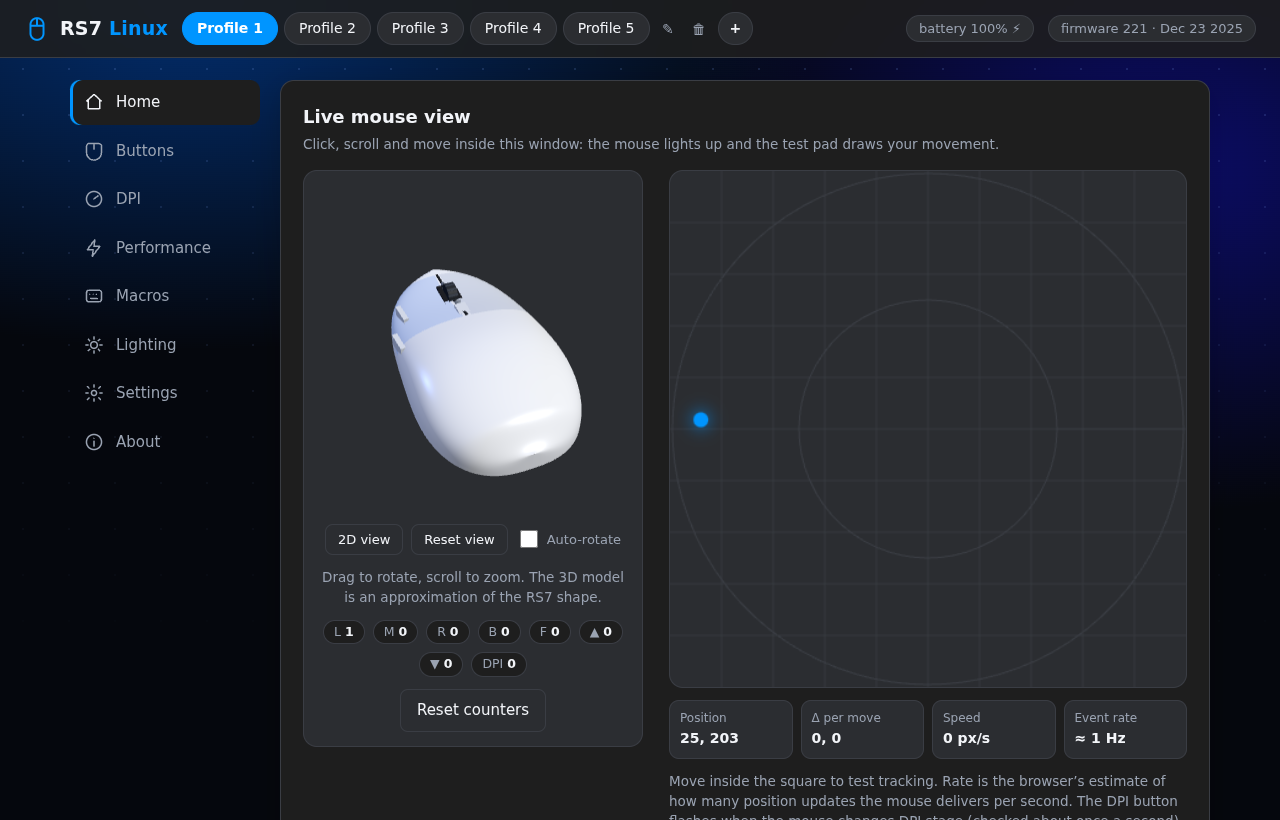
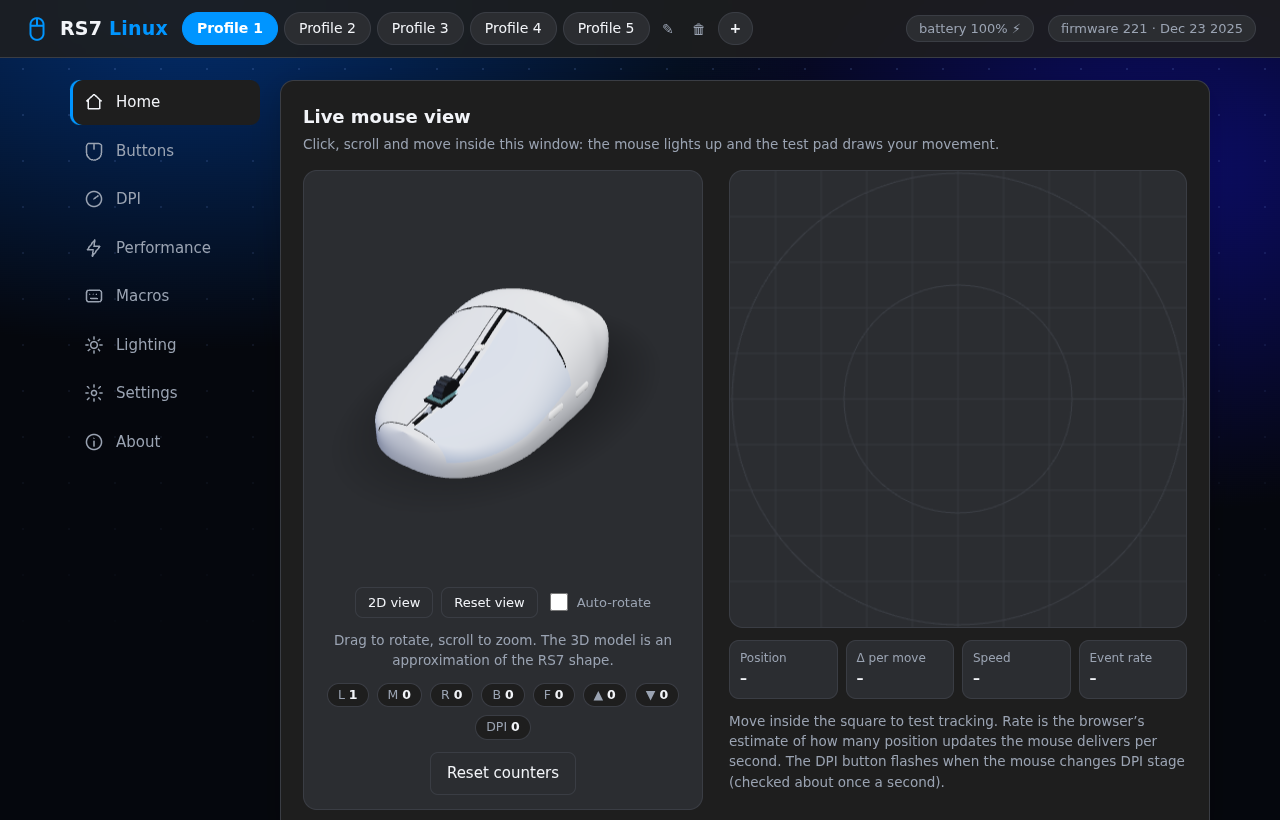
chore: release 0.5.1

diff --git a/rs7/__init__.py b/rs7/__init__.py
@@ -1,2 +1,2 @@
 """rs7-linux: unofficial Linux configurator for the Smailwolf RS7 mouse (YJX chip)."""
-__version__ = "0.5.0"
+__version__ = "0.5.1"

diff --git a/CHANGELOG.md b/CHANGELOG.md
@@ -1,5 +1,8 @@
 # Changelog
 
+## 0.5.1
+- 3D mouse redone from the product photos: concave waist, rounder narrower rear, hump ahead of the middle, arched seam behind the main buttons, centre slit with wheel + DPI pill, two side pills, satin finish, environment reflections, wheel glow ring, 3/4 front-left default view. Still an approximation of the RS7.
+
 ## 0.5.0
 - Home: 3D mouse (three.js vendored, procedural model): drag to rotate, scroll to zoom, auto-rotate, reset view; buttons, wheel and DPI button light up in 3D. 2D/3D switch, automatic fallback to the SVG when WebGL is unavailable. The model approximates the RS7 shape; a real .glb can replace the geometry.
 
